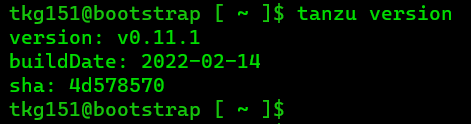
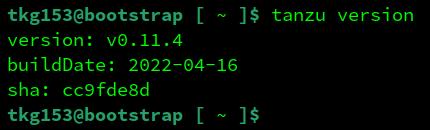
Updated

diff --git a/tap/tkgm/README.md b/tap/tkgm/README.md
@@ -181,7 +181,7 @@ To accept EULAs:
 ### Step 7
 Add/update the `Tanzu Application Platform` specific `Tanzu CLI` plugins.
 
-Sign in to `Tanzu Network` and Navigate to `Tanzu Application Platform`. Click the `tanzu-cli-0.11.1` directory and download the CLI bundle corresponding to your operating system. For example, if your client operating system is Linux, download the `tanzu-framework-linux-amd64.tar` bundle.
+Sign in to `Tanzu Network` and Navigate to `Tanzu Application Platform`. Click the `tanzu-cli-0.11.4` directory and download the CLI bundle corresponding to your operating system. For example, if your client operating system is Linux, download the `tanzu-framework-linux-amd64.tar` bundle.
 
 ---
 
@@ -195,7 +195,7 @@ Unpack the TAR file in the tanzu directory by running:
 
 `tar -xvf tanzu-framework-linux-amd64.tar -C ~/tanzu-cli`
 
-Copy the file `~/tanzu-cli/cli/core/v0.11.1/tanzu-core-linux_amd64` to a location in the system path and rename it to `tanzu`.
+Copy the file `~/tanzu-cli/cli/core/v0.11.4/tanzu-core-linux_amd64` to a location in the system path and rename it to `tanzu`.
 
 Check installation status for the core CLI by running:
 
@@ -203,7 +203,7 @@ Check installation status for the core CLI by running:
 
 ![](images/tanzu-cli-version.png)
 
-Expected output: version: `v0.11.1`
+Expected output: version: `v0.11.4`
 
 Navigate to the tanzu directory by running:
 
